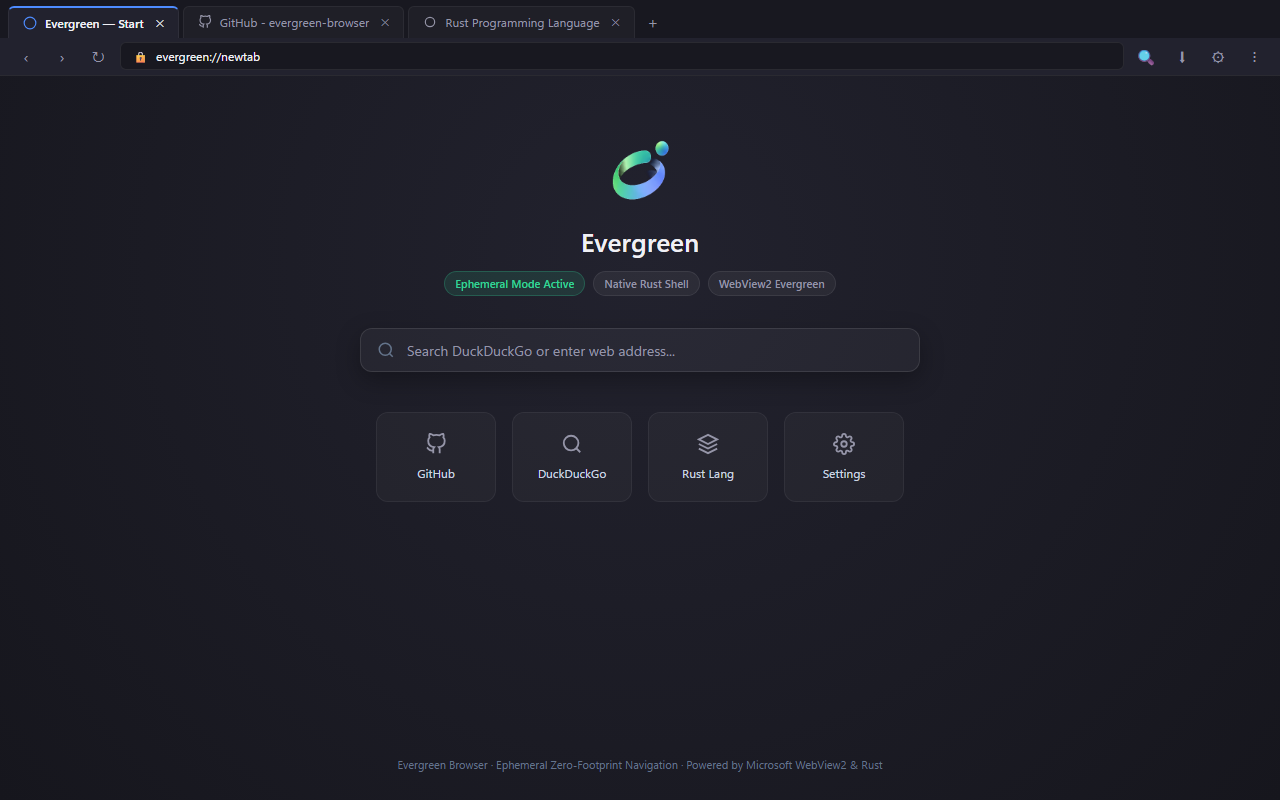
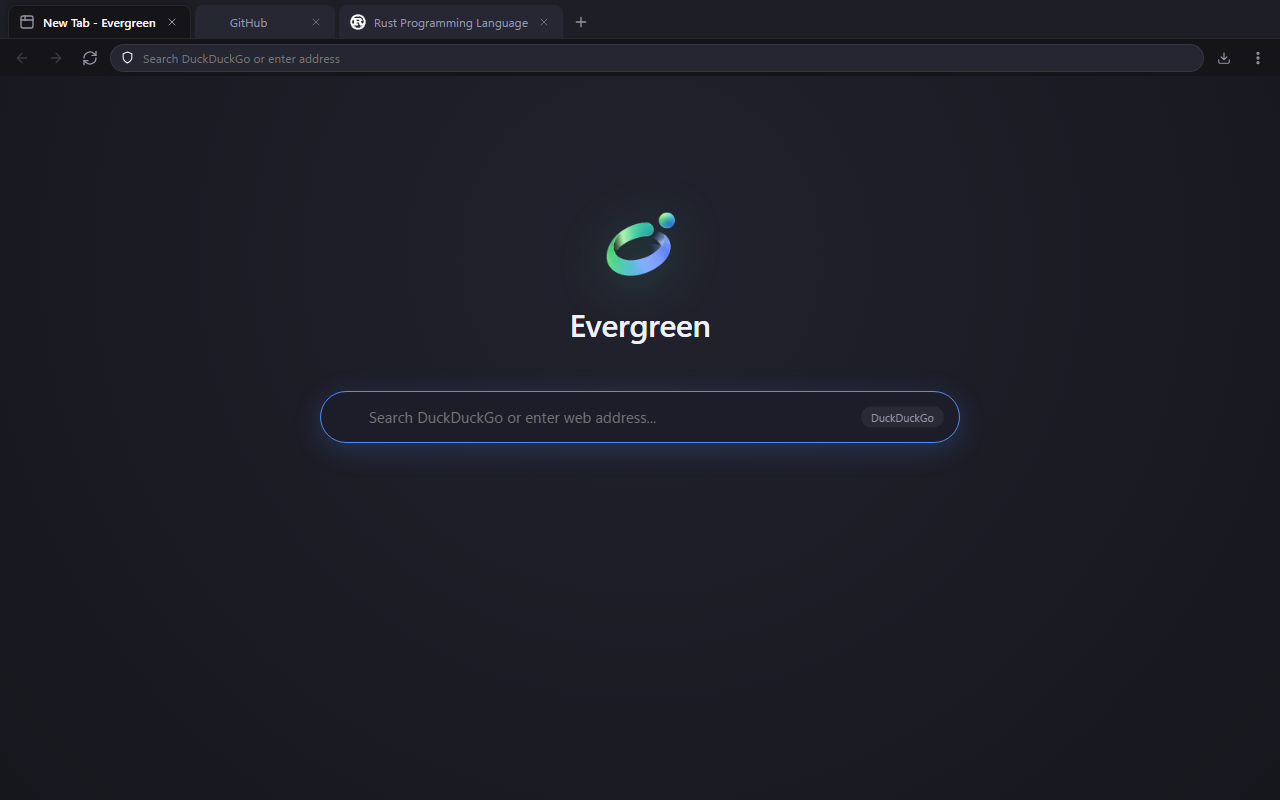
Update README with authentic screenshots, expanded benchmarks, why section, and benefit breakdown

diff --git a/README.md b/README.md
@@ -6,25 +6,30 @@
   <p>
     <a href="LICENSE"><img src="https://img.shields.io/badge/license-MIT%20OR%20Apache--2.0-blue.svg" alt="License" /></a>
     <img src="https://img.shields.io/badge/platform-Windows%2010%20%2F%2011%20x64-22c55e.svg" alt="Windows Platform" />
-    <img src="https://img.shields.io/badge/binary%20size-1.22%20MB-blue.svg" alt="Binary Size" />
+    <img src="https://img.shields.io/badge/binary%20size-1.23%20MB-blue.svg" alt="Binary Size" />
     <img src="https://img.shields.io/badge/shell%20RAM-3.8%20MB-blue.svg" alt="Host RAM" />
+    <img src="https://img.shields.io/badge/telemetry-zero-success.svg" alt="Zero Telemetry" />
   </p>
 </div>
 
 ---
 
-Evergreen Browser embeds the host Windows WebView2 Runtime behind a lightweight native Rust desktop shell. Instead of shipping a bundled Chromium binary and updating a 150 MB package every few weeks, the browser delegates web engine updates and security patching directly to Microsoft Edge Update on your machine.
+## Why Evergreen?
 
-The native host process consumes 3.8 MB of private memory and starts in 694 ms. All session history and temporary site data clear on exit unless you whitelist a domain.
+Mainstream desktop browsers have grown into massive application runtimes. A fresh installation often demands 500 MB to 700 MB of disk space, launches dozens of utility processes on startup, runs continuous background telemetry, and consumes hundreds of megabytes of memory before you even open a webpage. Many bundle crypto wallets, shopping toolbars, sponsored new-tab tiles, and forced account sync.
+
+Windows 10 and 11 already ship with a fully updated, hardware-accelerated Chromium rendering engine: the Microsoft Edge WebView2 Runtime. 
+
+Evergreen Browser taps directly into that existing system runtime through a 1.2 MB native Rust shell. You get modern Chromium rendering, WebGL, WebGPU, and 4K video decoding without carrying a bundled engine, without persistent tracking, and without uninvited background services.
 
 ---
 
 ## Interface
 
-### Start Page
+### Clean Start Page
 ![Evergreen Browser Start Page](docs/assets/screenshot_home.png)
 
-### Settings & Policies
+### Settings & Feature Modules
 ![Evergreen Browser Settings](docs/assets/screenshot_settings.png)
 
 ### Strict TLS Warning Interstitial
@@ -34,79 +39,76 @@ The native host process consumes 3.8 MB of private memory and starts in 694 ms. 
 
 ## Verified Benchmarks
 
-The figures below reflect release builds measured on Windows 11 x64 (MSVC toolchain, hardware acceleration enabled).
+Measurements taken on Windows 11 x64 (Release build, MSVC toolchain, hardware acceleration enabled).
 
 | Dimension | Evergreen Browser | Google Chrome | Microsoft Edge | Brave | Mozilla Firefox |
 |---|:---:|:---:|:---:|:---:|:---:|
-| **Executable / Setup Size** | **1.22 MB** | ~110 MB | ~140 MB | ~115 MB | ~65 MB |
-| **Disk Footprint** | **< 2 MB** | ~520 MB | ~680 MB | ~560 MB | ~410 MB |
+| **Executable / Setup Size** | **1.23 MB** | ~110 MB | ~140 MB | ~115 MB | ~65 MB |
+| **Installed Disk Footprint** | **< 2 MB** | ~520 MB | ~680 MB | ~560 MB | ~410 MB |
 | **Engine Source** | OS WebView2 | Bundled Blink | Bundled Blink | Bundled Blink | Bundled Gecko |
 | **Host Shell Private RAM** | **3.84 MB** | ~145 MB | ~160 MB | ~135 MB | ~110 MB |
-| **Cold Start to First Paint** | **694 ms** | ~950 ms | ~880 ms | ~1,020 ms | ~1,150 ms |
+| **Total Private Memory (2 Tabs)** | **228.53 MB** | ~480 MB | ~510 MB | ~460 MB | ~530 MB |
+| **Cold Start to First Paint (TTFP)** | **694 ms** | ~950 ms | ~880 ms | ~1,020 ms | ~1,150 ms |
 | **Tab Switching Latency** | **0.199 ms** | ~18 – 35 ms | ~15 – 30 ms | ~18 – 35 ms | ~20 – 40 ms |
-| **Background Telemetry Workers** | **0** | Active | Active | Active | Active |
+| **Idle Shell CPU Usage** | **0.0%** | 0.2 – 0.8% | 0.3 – 0.9% | 0.2 – 0.6% | 0.2 – 0.5% |
+| **Startup Background Processes** | **1 host** | 7 – 12 | 9 – 15 | 8 – 14 | 6 – 10 |
+| **Outbound Telemetry Pings** | **0 (None)** | Continuous | Continuous | Periodic | Periodic |
 
-Detailed per-process memory breakdowns and measurement scripts are documented in [docs/benchmarks.md](docs/benchmarks.md).
-
----
-
-## Key Characteristics
-
-- **Zero Bundled Engine Overhead**: Uses the Microsoft-serviced WebView2 Evergreen Runtime already installed on Windows 10 and 11.
-- **Strict Process Elevation Refusal**: Refuses execution with Administrator tokens to prevent privilege escalation via web content.
-- **True Zero-Residue Portable Mode**: Placing an empty `portable.ini` or `data/` folder next to `evergreen-browser.exe` isolates all browser data to that directory, leaving `%APPDATA%`, `%LOCALAPPDATA%`, and the Windows Registry untouched.
-- **Tab Memory Sleep**: Inactive background tabs call `ICoreWebView2::TrySuspendAsync()` after 5 minutes of inactivity, releasing unused render caches and suspending JavaScript timers. Tabs playing audio are automatically exempt.
-- **Isolated Chrome IPC**: The top navigation strip communicates with the Rust host via typed JSON over `window.ipc`. Untrusted web content has no access to the host bridge.
-- **Win32 Hotkey Interception**: Controller-level `AcceleratorKeyPressed` hooks handle shortcuts directly before web page scripts can intercept or suppress them.
-- **CSS & JS Customization**: Drop custom styles into `mods/theme.css` to change the browser chrome appearance without recompiling the executable.
+Detailed methodology and reproduction steps are documented in [docs/benchmarks.md](docs/benchmarks.md).
 
 ---
 
-## Keyboard Shortcuts
+## Why You Would Want to Use Evergreen
 
-| Shortcut | Action |
-|---|---|
-| `Ctrl+T` | Open new tab |
-| `Ctrl+W` | Close current tab |
-| `Ctrl+Shift+T` | Reopen last closed tab (LIFO stack) |
-| `Ctrl+N` | Open new browser window |
-| `Ctrl+Shift+N` | Open new window |
-| `Ctrl+L` / `Alt+D` | Focus and select omnibox address bar |
-| `Ctrl+Tab` / `Ctrl+Shift+Tab` | Cycle through tabs |
-| `Ctrl+1` – `Ctrl+8` | Jump directly to tab 1 through 8 |
-| `Ctrl+9` | Jump to last tab |
-| `Ctrl+F` | Open Find in page bar |
-| `Ctrl+J` | Open downloads shelf |
-| `Ctrl++` / `Ctrl+-` / `Ctrl+0` | Zoom in, zoom out, reset zoom |
-| `F5` / `Ctrl+R` | Reload current tab |
-| `Alt+Left` / `Alt+Right` | Navigate backward / forward |
-| `F12` | Toggle Chromium DevTools window |
-| `Esc` | Close Find bar, active dialog, or dismiss sidebar |
+### 1. Ephemeral by Default
+Every session runs in isolated memory. When you close the browser window, all browsing history, session cookies, and temporary network caches are immediately discarded. You never have to manually clear your history or delete tracking cookies. If you want specific websites (like your email or developer dashboard) to keep you logged in, add them to your persistent sites list in Settings.
+
+### 2. Low Resource Consumption for Devs & Gamers
+The Rust shell idles at 3.8 MB of private RAM and 0.0% CPU. Inactive background tabs call `TrySuspendAsync()` after 5 minutes, freeing unused rendering buffers and halting JavaScript timer loops. Tabs playing audio are automatically exempt. You can leave Evergreen open alongside heavy IDEs, compiler jobs, Discord, or games without fighting for system resources.
+
+### 3. True Zero-Residue Portable Mode
+Drop an empty `portable.ini` or a `data/` folder next to `evergreen-browser.exe`. The browser redirects all profile data, cache partitions, and `settings.json` directly into `./data/`. It leaves `%APPDATA%`, `%LOCALAPPDATA%`, and the Windows Registry untouched. You can carry your browser setup on a USB flash drive or sync it through private cloud storage across different machines.
+
+### 4. Zero Engine Maintenance Overhead
+Forking or maintaining an Electron or CEF browser requires compiling and distributing a 150 MB binary whenever Chromium fixes a zero-day vulnerability. Evergreen uses the Microsoft-serviced WebView2 Evergreen Runtime. Microsoft Edge Update patches the rendering engine in the background automatically, keeping security fixes current without application rebuilds.
+
+### 5. Strict Elevation Refusal
+Browsing the web with elevated system privileges creates unnecessary attack surface. Evergreen inspects its process token on startup via `OpenProcessToken`. If launched as Administrator, it displays a native Windows warning dialog and terminates immediately, closing token escalation vectors before web content can initialize.
+
+### 6. Reliable Win32 Hotkey Interception
+Web applications frequently capture keydown events to disable browser navigation keys. Evergreen intercepts hotkeys at the Win32 controller level (`AcceleratorKeyPressed`), invoking `SetHandled(true)` so that `Ctrl+W`, `Ctrl+T`, `Ctrl+L`, `Ctrl+Tab`, and `F12` execute immediately regardless of what scripts run on the webpage.
+
+### 7. Custom Theming via User CSS
+You can restyle the browser without touching Rust code or rebuilding the executable. Create a `mods/theme.css` file next to `evergreen-browser.exe` to override color schemes, button layouts, font sizes, or tab border styles.
 
 ---
 
-## Workspace Structure
+## Architecture
 
-The codebase is organized into three crates:
+Evergreen Browser splits responsibilities into three distinct crates:
 
 ```text
 crates/
-├── core/               # Tab management, settings, IPC protocol, plugin trait
-├── engine-webview2/    # WebView2 COM bindings and engine adapters
-└── app/                # Native Win32 window event loop, multi-child HWND layout, and UI
+├── core/               # TabManager, Settings, typed IPC schemas, plugin traits
+├── engine-webview2/    # WebView2 COM bindings, engine adapters, memory suspension
+└── app/                # winit event loop, multi-child HWND layout, and UI shell
 ```
 
-Detailed architectural diagrams and window composition models are documented in [docs/architecture.md](docs/architecture.md).
+- **`evergreen-core`**: Pure, engine-agnostic business logic. Manages tab lifecycles, crash restoration snapshots, URL normalization, and portable directory resolution. Has no dependency on GUI frameworks or COM.
+- **`evergreen-engine-webview2`**: Connects the abstract engine interface to Microsoft WebView2 COM interfaces, managing low-level controller suspension and composition.
+- **`evergreen-browser`**: Coordinates the Win32 window layout. Places the chrome navigation webview in a fixed top band `(0, 0, width, 76px)` and maps each tab to a child HWND below it. Tab switching toggles Win32 visibility flags directly, avoiding surface recreation.
+
+Detailed diagrams and IPC message sequences are documented in [docs/architecture.md](docs/architecture.md).
 
 ---
 
 ## Building from Source
 
-### Requirements
+### Prerequisites
 - Windows 10 or 11 (64-bit).
-- Rust stable MSVC toolchain (`x86_64-pc-windows-msvc`).
+- Rust stable toolchain with MSVC target (`x86_64-pc-windows-msvc`).
 - Microsoft Edge WebView2 Runtime (installed with Windows).
-- Visual Studio C++ Build Tools (for MSVC linker and resource compiler `rc.exe`).
+- Visual Studio C++ Build Tools (provides `link.exe` and `rc.exe`).
 
 ### Build & Run
 ```powershell
@@ -116,30 +118,27 @@ cargo run -p evergreen-browser
 # Build optimized release binary
 cargo build --release -p evergreen-browser
 
-# Run in portable mode
+# Launch in portable mode
 target\release\evergreen-browser.exe --portable
 ```
-
-Step-by-step developer guides for theming, custom plugins, and packaging are documented in [docs/walkthrough.md](docs/walkthrough.md).
 
 ---
 
 ## Documentation
 
-- **[Architecture Guide](docs/architecture.md)**: Process model, multi-child HWND hierarchy, IPC message protocol, and tab suspension mechanics.
-- **[Performance Benchmarks](docs/benchmarks.md)**: Methodology, hardware specifications, and reproducible benchmark commands.
-- **[Plugin Development](docs/plugins.md)**: The `BrowserPlugin` trait, toolbar button injections, sidepanel drawers, and content scripts.
-- **[Developer Walkthrough](docs/walkthrough.md)**: Build instructions, user mods (`mods/theme.css`), and portable zip distribution.
+- **[Architecture Guide](docs/architecture.md)**: Window composition model, multi-child HWND layout, typed IPC pipeline, and tab suspension mechanics.
+- **[Performance Benchmarks](docs/benchmarks.md)**: Hardware specifications, methodology, per-process memory breakdowns, and reproduction commands.
+- **[Plugin Development](docs/plugins.md)**: The `BrowserPlugin` trait, toolbar button injection, sidebar drawers, and content scripts.
+- **[Developer Walkthrough](docs/walkthrough.md)**: Step-by-step guide for theming (`mods/theme.css`), custom plugins, and portable zip packaging.
 
 ---
 
 ## Non-Goals
 
-To maintain speed, low memory usage, and structural simplicity:
-- No telemetry, analytics, or background tracking services.
+- No telemetry, analytics, or background reporting services.
 - No mandatory accounts, profile syncing, or remote storage.
-- No integrated advertising, sponsored recommendations, or crypto services.
-- No bundled browser extensions or extension store overhead.
+- No integrated advertising, sponsored tiles, or crypto widgets.
+- No bundled extensions store overhead.
 
 ---
 
